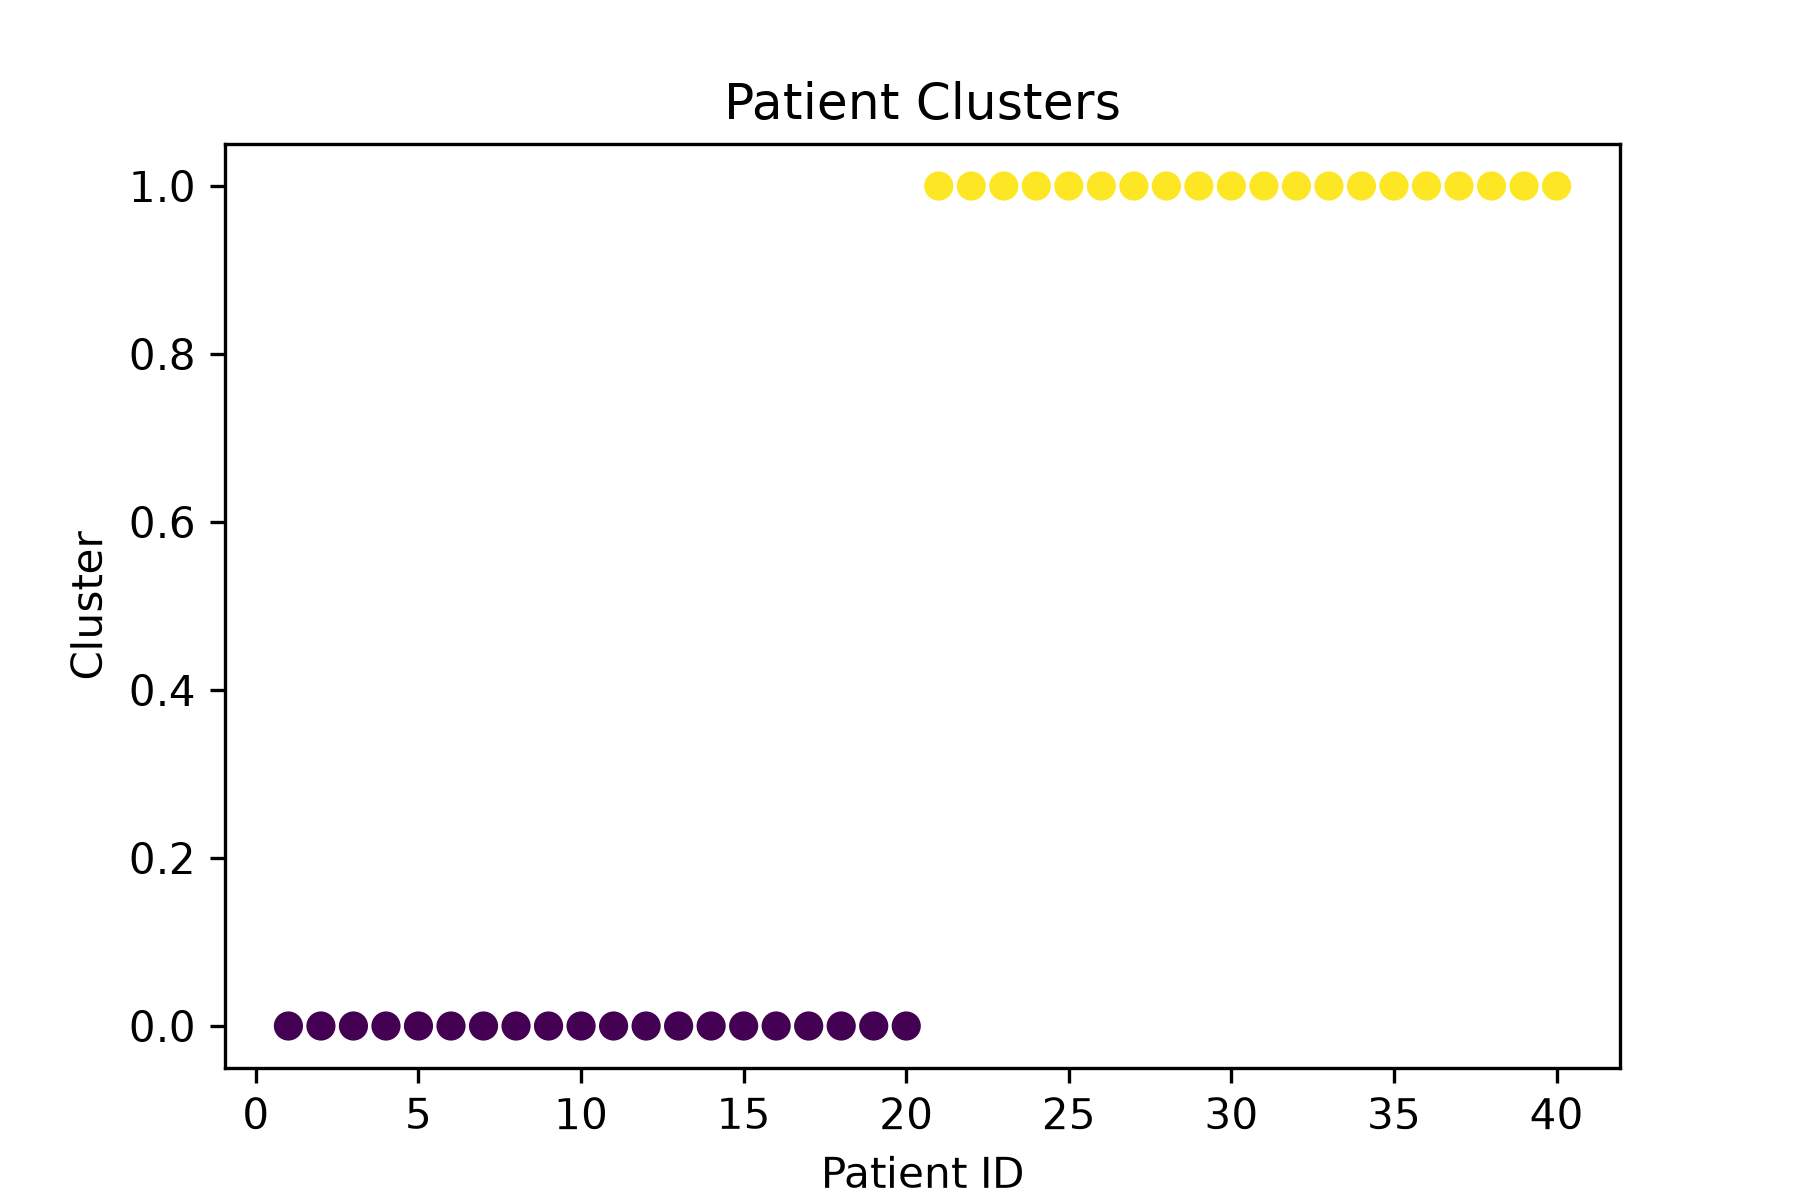
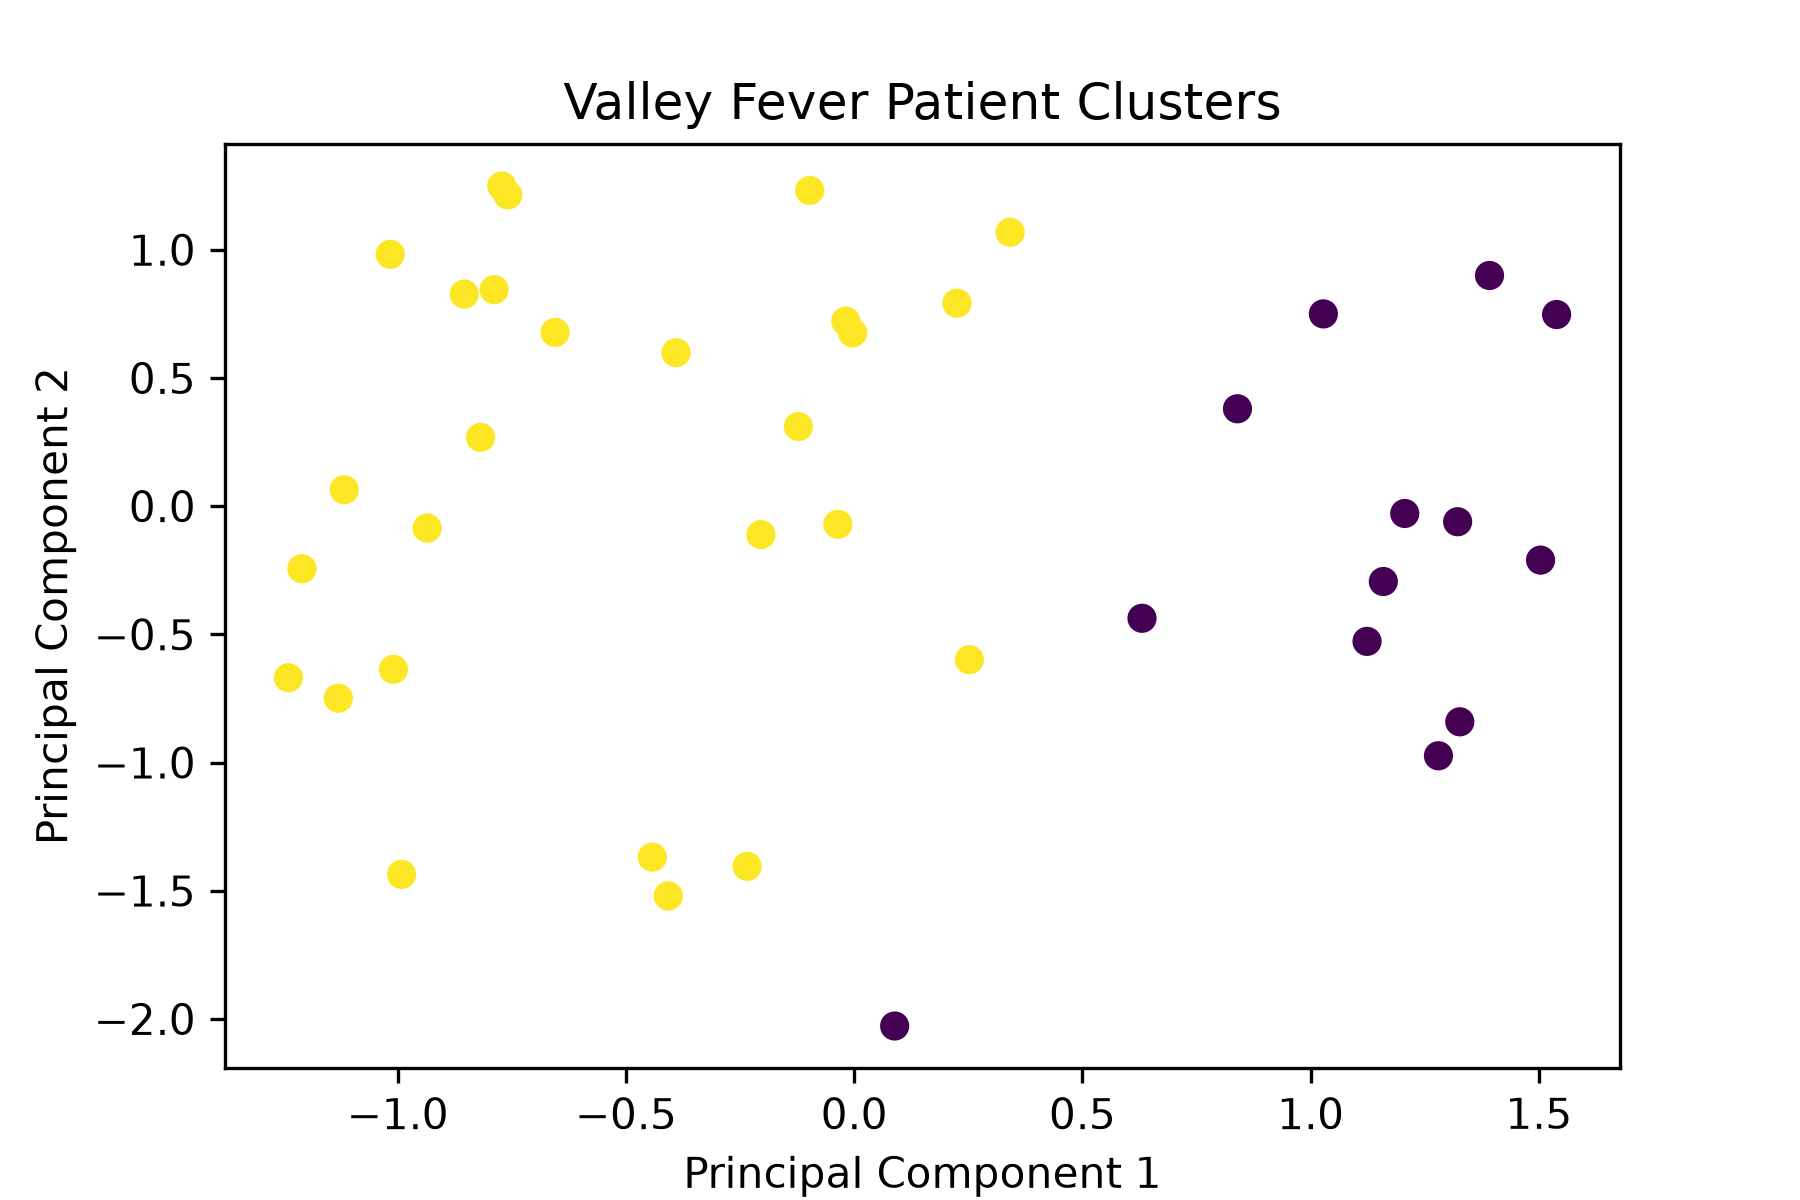
Update Valley Fever clustering analysis and visualization

diff --git a/main.py b/main.py
@@ -2,6 +2,9 @@ import pandas as pd
 import random
 import matplotlib.pyplot as plt
 from sklearn.cluster import KMeans
+from sklearn.decomposition import PCA
+
+random.seed(42)
 
 # Create synthetic patient data
 # Create a larger synthetic patient dataset
@@ -23,11 +26,10 @@ patient_data = pd.DataFrame(patients)
 patient_data.to_csv("synthetic_patients.csv", index=False)
 
 # Display the dataset
-print(patient_data)
+ # print(patient_data)
 # Convert categories into numbers
-encoded_data = pd.get_dummies(patient_data)
+encoded_data = pd.get_dummies(patient_data.drop("Patient_ID", axis=1))
 
-print(encoded_data)
 from sklearn.cluster import KMeans
 
 # Create a K-Means model with 2 clusters
@@ -38,6 +40,7 @@ kmeans.fit(encoded_data)
 
 # Save each patient's cluster
 patient_data["Cluster"] = kmeans.labels_
+
 # Count how many patients are in each cluster
 print("\nNumber of patients in each cluster:")
 print(patient_data["Cluster"].value_counts())
@@ -47,26 +50,29 @@ print("\nCluster summaries:")
 cluster_summary = encoded_data.copy()
 cluster_summary["Cluster"] = kmeans.labels_
 
-print(cluster_summary.groupby("Cluster").mean())
+print(cluster_summary.groupby("Cluster").mean().T)
 
 # Show the results
-print(patient_data)
+ # print(patient_data)
 import matplotlib.pyplot as plt
+
+# Reduce the data to 2 dimensions for visualization
+pca = PCA(n_components=2)
+pca_data = pca.fit_transform(encoded_data)
 
 # Create a scatter plot of the clusters
 plt.figure(figsize=(6, 4))
 plt.scatter(
-    patient_data["Patient_ID"],
-    patient_data["Cluster"],
-    c=patient_data["Cluster"],
+    pca_data[:, 0],
+    pca_data[:, 1],
+    c=patient_data["Cluster"]
 )
-plt.title("Patient Clusters")
-# Add labels and title
-plt.title("Patient Clusters")
-plt.xlabel("Patient ID")
-plt.ylabel("Cluster")
 
-# Save the graph as an image
+plt.title("Valley Fever Patient Clusters")
+plt.xlabel("Principal Component 1")
+plt.ylabel("Principal Component 2")
+
+# Save the graph
 plt.savefig("patient_clusters.png", dpi=300)
 
 # Display the graph
